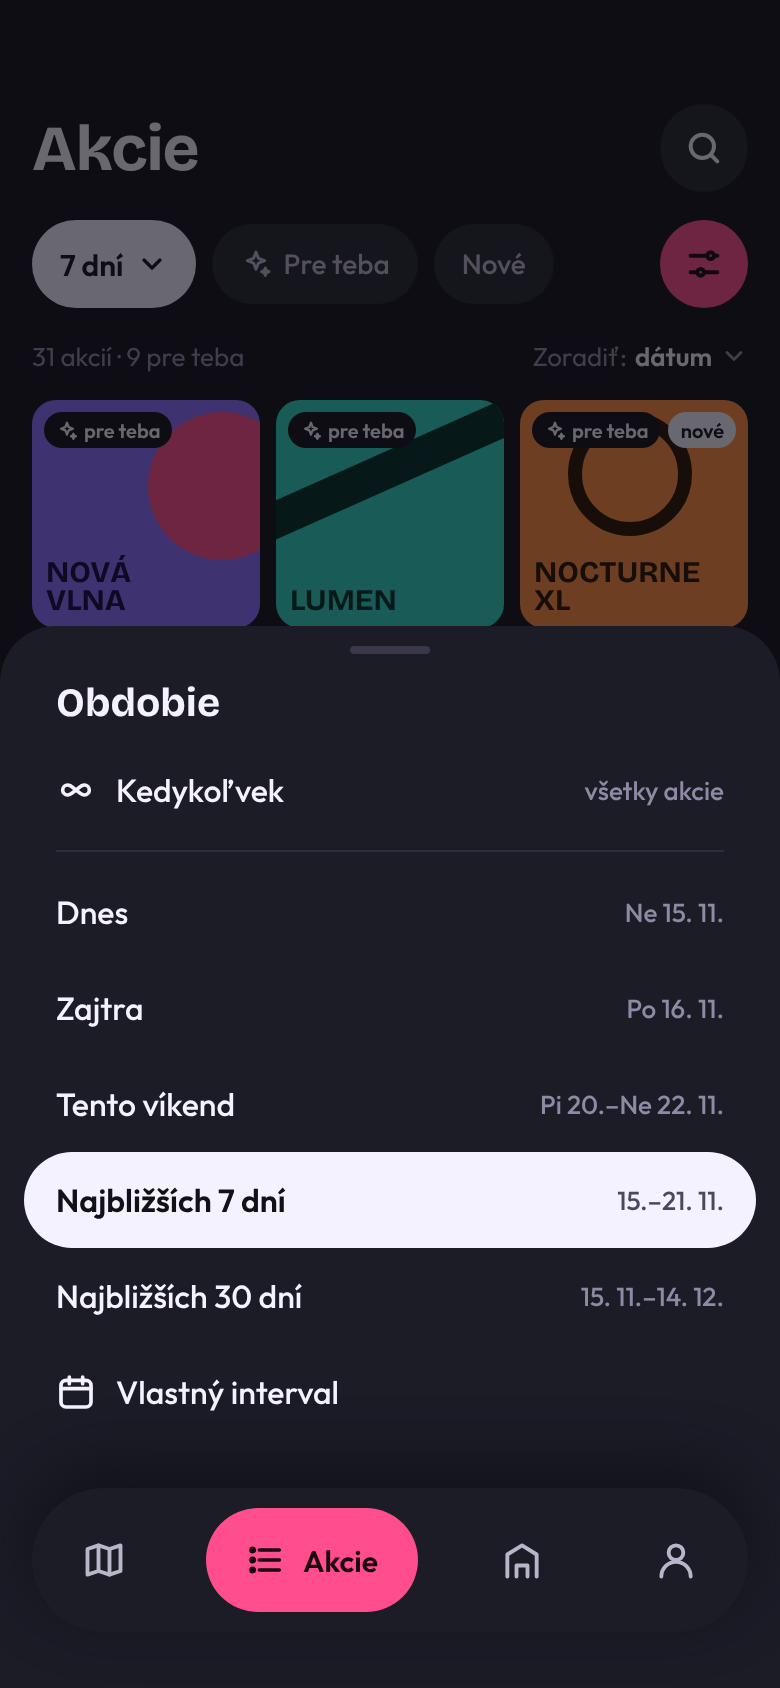
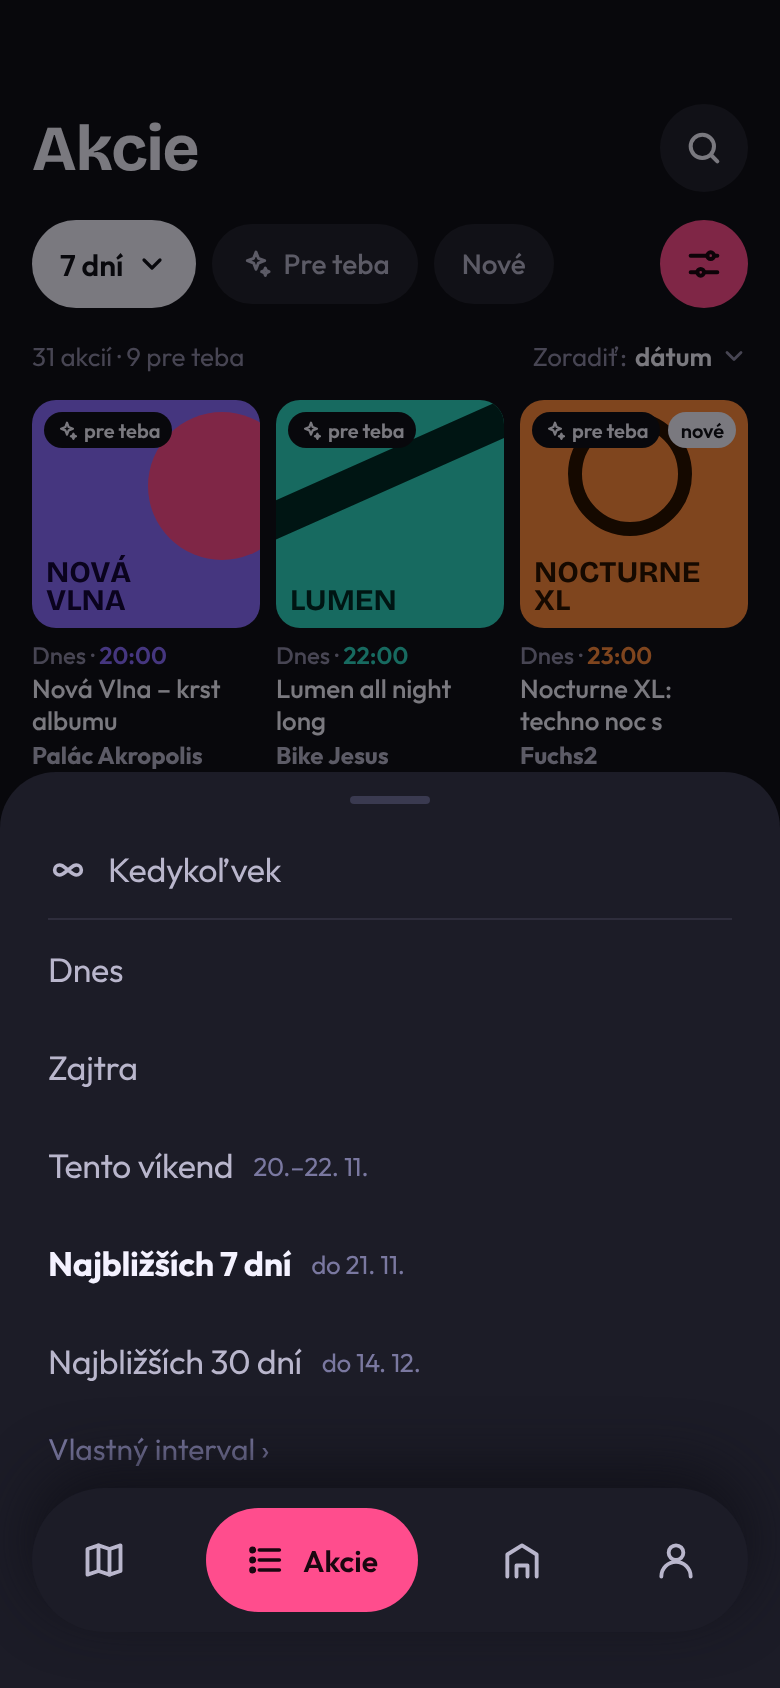
docs: Akcie period sheet same as map day selector
Claude-Session: https://claude.ai/code/session_01CCRZeCVriBLHf7RCmUKnbv

Changed region(s): [[0.0, 0.3697, 1.0, 0.8626], [0.8, 0.5853, 0.9231, 0.6161], [0.8, 0.5237, 0.9231, 0.5545]]

diff --git a/docs/design/html/11-akcie-obdobie.html b/docs/design/html/11-akcie-obdobie.html
@@ -39,12 +39,11 @@
 <div style="margin-top:6px;font-size:12px;font-weight:600;white-space:nowrap;overflow:hidden"><span style="color:#8E8AA6;font-weight:500">Zajtra · </span><span style="color:#C6F432">20:00</span></div>
 <div style="font-size:13px;font-weight:500;line-height:1.25;max-height:2.5em;overflow:hidden;margin-top:1px">Hamlet remix</div>
 <div style="font-size:12px;font-weight:700;color:#B9B6CC;white-space:nowrap;overflow:hidden;text-overflow:ellipsis;margin-top:1px">Archa+</div>
-<div class="tg" style="display:flex;gap:4px;margin-top:5px;overflow:hidden"><span style="flex:none;height:18px;padding:0 6px;border-radius:9px;font-size:10px;font-weight:500;display:flex;align-items:center;background:#2A2838;color:#E4DEFF">theatre</span><span style="flex:none;height:18px;padding:0 6px;border-radius:9px;font-size:10px;font-weight:500;display:flex;align-items:center;border:1.5px solid #5D5677;color:#F4F2FF;box-sizing:border-box">english-friendly</span><span style="flex:none;height:18px;padding:0 6px;border-radius:9px;font-size:10px;font-weight:500;display:flex;align-items:center;border:1.5px solid #5D5677;color:#F4F2FF;box-sizing:border-box">experimental</span></div></div></div></div><nav style="position: absolute; z-index: 10; left: 16px; right: 16px; bottom: 28px; height: 72px; border-radius: 36px; background: #1C1C27; display: flex; align-items: center; justify-content: space-between; padding: 0 10px; box-shadow: 0 -10px 30px rgba(17,17,24,0.9)" aria-label="Hlavná navigácia"><a href="#" style="width: 52px; height: 52px; border-radius: 26px; color: #B9B6CC; display: flex; align-items: center; justify-content: center" aria-label="Mapa"><svg width="22" height="22" viewBox="0 0 24 24" fill="none" stroke="currentColor" stroke-width="2.1" stroke-linecap="round" stroke-linejoin="round" aria-hidden="true"><path d="M9 4L3 6v14l6-2 6 2 6-2V4l-6 2z"></path><path d="M9 4v14M15 6v14"></path></svg></a><a href="#" style="height: 52px; padding: 0 20px; border-radius: 26px; background: #FF4D8D; color: #1A0710; display: flex; align-items: center; gap: 8px; text-decoration: none; font-size: 15px; font-weight: 600"><svg width="20" height="20" viewBox="0 0 24 24" fill="none" stroke="currentColor" stroke-width="2.2" stroke-linecap="round" stroke-linejoin="round" aria-hidden="true"><path d="M8 6h12M8 12h12M8 18h12"></path><circle cx="4" cy="6" r="1"></circle><circle cx="4" cy="12" r="1"></circle><circle cx="4" cy="18" r="1"></circle></svg>Akcie</a><a href="#" style="width: 52px; height: 52px; border-radius: 26px; color: #B9B6CC; display: flex; align-items: center; justify-content: center" aria-label="Miesta"><svg width="22" height="22" viewBox="0 0 24 24" fill="none" stroke="currentColor" stroke-width="2.1" stroke-linecap="round" stroke-linejoin="round" aria-hidden="true"><path d="M4 21V9l8-5 8 5v12"></path><path d="M9 21v-6h6v6"></path></svg></a><a href="#" style="width: 52px; height: 52px; border-radius: 26px; color: #B9B6CC; display: flex; align-items: center; justify-content: center" aria-label="Účet"><svg width="22" height="22" viewBox="0 0 24 24" fill="none" stroke="currentColor" stroke-width="2.1" stroke-linecap="round" stroke-linejoin="round" aria-hidden="true"><circle cx="12" cy="8" r="4"></circle><path d="M4 21a8 8 0 0 1 16 0"></path></svg></a></nav><div style="position:absolute;inset:0;background:rgba(11,11,16,.6);z-index:5"></div>
-<div style="position:absolute;left:0;right:0;bottom:0;z-index:6;background:#1C1C27;border-radius:28px 28px 0 0;padding:10px 12px 124px">
-<div style="width:40px;height:4px;border-radius:2px;background:#3A3848;margin:0 auto 12px"></div>
-<div style="font-family:'Bricolage Grotesque',sans-serif;font-size:20px;font-weight:700;padding:0 16px 8px">Obdobie</div>
-<div style="height:48px;border-radius:24px;padding:0 16px;display:flex;align-items:center;gap:10px;font-size:16px;font-weight:500;background:transparent;color:#F4F2FF"><svg width="20" height="20" viewBox="0 0 24 24" fill="none" stroke="currentColor" stroke-width="2.2" stroke-linecap="round" stroke-linejoin="round" aria-hidden="true"><path d="M7 9a3 3 0 1 0 0 6c2 0 3-1.5 5-3s3-3 5-3a3 3 0 1 1 0 6c-2 0-3-1.5-5-3s-3-3-5-3z"></path></svg><span>Kedykoľvek</span><span style="margin-left:auto;font-size:13px;color:#8E8AA6;font-weight:500">všetky akcie</span></div>
-<div style="height:1px;background:#2E2D3C;margin:6px 16px"></div>
-<div style="height:48px;border-radius:24px;padding:0 16px;display:flex;align-items:center;gap:10px;font-size:16px;font-weight:500;background:transparent;color:#F4F2FF"><span>Dnes</span><span style="margin-left:auto;font-size:13px;color:#8E8AA6;font-weight:500">Ne 15. 11.</span></div><div style="height:48px;border-radius:24px;padding:0 16px;display:flex;align-items:center;gap:10px;font-size:16px;font-weight:500;background:transparent;color:#F4F2FF"><span>Zajtra</span><span style="margin-left:auto;font-size:13px;color:#8E8AA6;font-weight:500">Po 16. 11.</span></div><div style="height:48px;border-radius:24px;padding:0 16px;display:flex;align-items:center;gap:10px;font-size:16px;font-weight:500;background:transparent;color:#F4F2FF"><span>Tento víkend</span><span style="margin-left:auto;font-size:13px;color:#8E8AA6;font-weight:500">Pi 20.–Ne 22. 11.</span></div><div style="height:48px;border-radius:24px;padding:0 16px;display:flex;align-items:center;gap:10px;font-size:16px;font-weight:600;background:#F4F2FF;color:#111118"><span>Najbližších 7 dní</span><span style="margin-left:auto;font-size:13px;color:#4A4760;font-weight:500">15.–21. 11.</span></div><div style="height:48px;border-radius:24px;padding:0 16px;display:flex;align-items:center;gap:10px;font-size:16px;font-weight:500;background:transparent;color:#F4F2FF"><span>Najbližších 30 dní</span><span style="margin-left:auto;font-size:13px;color:#8E8AA6;font-weight:500">15. 11.–14. 12.</span></div>
-<div style="height:48px;border-radius:24px;padding:0 16px;display:flex;align-items:center;gap:10px;font-size:16px;font-weight:500;background:transparent;color:#F4F2FF"><svg width="20" height="20" viewBox="0 0 24 24" fill="none" stroke="currentColor" stroke-width="2.2" stroke-linecap="round" stroke-linejoin="round" aria-hidden="true"><rect x="3" y="5" width="18" height="16" rx="3"></rect><path d="M3 10h18M8 3v4M16 3v4"></path></svg><span>Vlastný interval</span><span style="margin-left:auto;font-size:13px;color:#8E8AA6;font-weight:500"></span></div>
+<div class="tg" style="display:flex;gap:4px;margin-top:5px;overflow:hidden"><span style="flex:none;height:18px;padding:0 6px;border-radius:9px;font-size:10px;font-weight:500;display:flex;align-items:center;background:#2A2838;color:#E4DEFF">theatre</span><span style="flex:none;height:18px;padding:0 6px;border-radius:9px;font-size:10px;font-weight:500;display:flex;align-items:center;border:1.5px solid #5D5677;color:#F4F2FF;box-sizing:border-box">english-friendly</span><span style="flex:none;height:18px;padding:0 6px;border-radius:9px;font-size:10px;font-weight:500;display:flex;align-items:center;border:1.5px solid #5D5677;color:#F4F2FF;box-sizing:border-box">experimental</span></div></div></div></div><nav style="position: absolute; z-index: 10; left: 16px; right: 16px; bottom: 28px; height: 72px; border-radius: 36px; background: #1C1C27; display: flex; align-items: center; justify-content: space-between; padding: 0 10px; box-shadow: 0 -10px 30px rgba(17,17,24,0.9)" aria-label="Hlavná navigácia"><a href="#" style="width: 52px; height: 52px; border-radius: 26px; color: #B9B6CC; display: flex; align-items: center; justify-content: center" aria-label="Mapa"><svg width="22" height="22" viewBox="0 0 24 24" fill="none" stroke="currentColor" stroke-width="2.1" stroke-linecap="round" stroke-linejoin="round" aria-hidden="true"><path d="M9 4L3 6v14l6-2 6 2 6-2V4l-6 2z"></path><path d="M9 4v14M15 6v14"></path></svg></a><a href="#" style="height: 52px; padding: 0 20px; border-radius: 26px; background: #FF4D8D; color: #1A0710; display: flex; align-items: center; gap: 8px; text-decoration: none; font-size: 15px; font-weight: 600"><svg width="20" height="20" viewBox="0 0 24 24" fill="none" stroke="currentColor" stroke-width="2.2" stroke-linecap="round" stroke-linejoin="round" aria-hidden="true"><path d="M8 6h12M8 12h12M8 18h12"></path><circle cx="4" cy="6" r="1"></circle><circle cx="4" cy="12" r="1"></circle><circle cx="4" cy="18" r="1"></circle></svg>Akcie</a><a href="#" style="width: 52px; height: 52px; border-radius: 26px; color: #B9B6CC; display: flex; align-items: center; justify-content: center" aria-label="Miesta"><svg width="22" height="22" viewBox="0 0 24 24" fill="none" stroke="currentColor" stroke-width="2.1" stroke-linecap="round" stroke-linejoin="round" aria-hidden="true"><path d="M4 21V9l8-5 8 5v12"></path><path d="M9 21v-6h6v6"></path></svg></a><a href="#" style="width: 52px; height: 52px; border-radius: 26px; color: #B9B6CC; display: flex; align-items: center; justify-content: center" aria-label="Účet"><svg width="22" height="22" viewBox="0 0 24 24" fill="none" stroke="currentColor" stroke-width="2.1" stroke-linecap="round" stroke-linejoin="round" aria-hidden="true"><circle cx="12" cy="8" r="4"></circle><path d="M4 21a8 8 0 0 1 16 0"></path></svg></a></nav><div style="position:absolute;inset:0;background:rgba(0,0,0,.5);z-index:5"></div>
+<div style="position:absolute;left:0;right:0;bottom:0;z-index:6;background:#1C1C27;border-radius:28px 28px 0 0;padding:12px 0 100px">
+<div style="width:40px;height:4px;border-radius:2px;background:#3A3A50;margin:0 auto 8px"></div>
+<div style="padding:14px 24px;display:flex;align-items:center;gap:10px;font-size:17px;letter-spacing:-0.01em;font-weight:400;color:#B9B6CC"><svg width="20" height="20" viewBox="0 0 24 24" fill="none" stroke="currentColor" stroke-width="2.2" stroke-linecap="round" stroke-linejoin="round" aria-hidden="true"><path d="M7 9a3 3 0 1 0 0 6c2 0 3-1.5 5-3s3-3 5-3a3 3 0 1 1 0 6c-2 0-3-1.5-5-3s-3-3-5-3z"></path></svg><span>Kedykoľvek</span></div>
+<div style="height:1px;background:#2E2D3C;margin:0 24px"></div>
+<div style="padding:14px 24px;display:flex;align-items:center;gap:10px;font-size:17px;letter-spacing:-0.01em;font-weight:400;color:#B9B6CC"><span>Dnes</span></div><div style="padding:14px 24px;display:flex;align-items:center;gap:10px;font-size:17px;letter-spacing:-0.01em;font-weight:400;color:#B9B6CC"><span>Zajtra</span></div><div style="padding:14px 24px;display:flex;align-items:center;gap:10px;font-size:17px;letter-spacing:-0.01em;font-weight:400;color:#B9B6CC"><span>Tento víkend</span><span style="font-size:13px;color:#7A78A0;font-weight:400">20.–22. 11.</span></div><div style="padding:14px 24px;display:flex;align-items:center;gap:10px;font-size:17px;letter-spacing:-0.01em;font-weight:700;color:#F4F2FF"><span>Najbližších 7 dní</span><span style="font-size:13px;color:#7A78A0;font-weight:400">do 21. 11.</span></div><div style="padding:14px 24px;display:flex;align-items:center;gap:10px;font-size:17px;letter-spacing:-0.01em;font-weight:400;color:#B9B6CC"><span>Najbližších 30 dní</span><span style="font-size:13px;color:#7A78A0;font-weight:400">do 14. 12.</span></div>
+<div style="padding:10px 24px;font-size:15px;color:#7A78A0">Vlastný interval ›</div>
 </div></div></body></html>

diff --git a/docs/design/source/gen/akcie.py b/docs/design/source/gen/akcie.py
@@ -73,15 +73,14 @@ b=header('Dnes',count='12 akcií · 3 pre teba')+'<div style="padding:14px 16px 
 page('10-akcie-mriezka',b)
 # 11 period sheet
 b=header('7 dní',count='31 akcií · 9 pre teba')+'<div style="padding:14px 16px 0">'+day('DNES · NEDEĽA 15. 11.')+grid(cards([0,3,5],'Dnes')+cards([7,8,1],'Zajtra'))+'</div>'
-row=lambda lab,on=False,ic='',sub='': f'<div style="height:48px;border-radius:24px;padding:0 16px;display:flex;align-items:center;gap:10px;font-size:16px;font-weight:{600 if on else 500};background:{"#F4F2FF" if on else "transparent"};color:{"#111118" if on else "#F4F2FF"}">{ic}<span>{lab}</span><span style="margin-left:auto;font-size:13px;color:{"#4A4760" if on else "#8E8AA6"};font-weight:500">{sub}</span></div>'
-sheet=f'''<div style="position:absolute;inset:0;background:rgba(11,11,16,.6);z-index:5"></div>
-<div style="position:absolute;left:0;right:0;bottom:0;z-index:6;background:#1C1C27;border-radius:28px 28px 0 0;padding:10px 12px 124px">
-<div style="width:40px;height:4px;border-radius:2px;background:#3A3848;margin:0 auto 12px"></div>
-<div style="font-family:'Bricolage Grotesque',sans-serif;font-size:20px;font-weight:700;padding:0 16px 8px">Obdobie</div>
-{row("Kedykoľvek",False,svg(I["inf"],20,2.2),"všetky akcie")}
-<div style="height:1px;background:#2E2D3C;margin:6px 16px"></div>
-{row("Dnes",False,'','Ne 15. 11.')}{row("Zajtra",False,'','Po 16. 11.')}{row("Tento víkend",False,'','Pi 20.–Ne 22. 11.')}{row("Najbližších 7 dní",True,'','15.–21. 11.')}{row("Najbližších 30 dní",False,'','15. 11.–14. 12.')}
-{row("Vlastný interval",False,svg(I["cal"],20,2.2),'')}
+row=lambda lab,on=False,ic='',sub='': f'<div style="padding:14px 24px;display:flex;align-items:center;gap:10px;font-size:17px;letter-spacing:-0.01em;font-weight:{700 if on else 400};color:{"#F4F2FF" if on else "#B9B6CC"}">{ic}<span>{lab}</span>{f'<span style="font-size:13px;color:#7A78A0;font-weight:400">{sub}</span>' if sub else ''}</div>'
+sheet=f'''<div style="position:absolute;inset:0;background:rgba(0,0,0,.5);z-index:5"></div>
+<div style="position:absolute;left:0;right:0;bottom:0;z-index:6;background:#1C1C27;border-radius:28px 28px 0 0;padding:12px 0 100px">
+<div style="width:40px;height:4px;border-radius:2px;background:#3A3A50;margin:0 auto 8px"></div>
+{row("Kedykoľvek",False,svg(I["inf"],20,2.2))}
+<div style="height:1px;background:#2E2D3C;margin:0 24px"></div>
+{row("Dnes")}{row("Zajtra")}{row("Tento víkend",False,'','20.–22. 11.')}{row("Najbližších 7 dní",True,'','do 21. 11.')}{row("Najbližších 30 dní",False,'','do 14. 12.')}
+<div style="padding:10px 24px;font-size:15px;color:#7A78A0">Vlastný interval ›</div>
 </div>'''
 page('11-akcie-obdobie',b,sheet)
 # 12 search

diff --git a/docs/design.md b/docs/design.md
@@ -95,7 +95,7 @@ Jeden zoznam akcií (mriežka) a nad ním filtre, ktoré sa dajú ľubovoľne ko
 - **Lišta:** biele tlačidlo **obdobia** 44 px s šípkou (rovnaké ako „Dnes ▾“ na mape), čipy **Pre teba** (ikona iskier, nie srdiečko) a **Nové** (40 px, vypnuté `#23232F` / `#B9B6CC`, zapnuté ružové `#FF4D8D` / `#1A0710`), vpravo ružový **Filter** 44 px (rovnaký ako na mape, s odznakom počtu). Filter je vždy na mieste; ak sa čipy nezmestia, ich pás sa posúva vodorovne a na pravom okraji sa stráca (len keď pretekajú).
 - **Riadok pod lištou** (13 px, `#8E8AA6`): vľavo počet („12 akcií · 3 pre teba“; pri zapnutom Pre teba „9 akcií pre teba“), vpravo **Zoradiť: dátum ▾** (hodnota `#F4F2FF` 600).
 
-**Obdobie** (panel zdola ako výber dňa na mape, `11`): nadpis „Obdobie“, prvá položka **Kedykoľvek** s ikonou nekonečna a textom „všetky akcie“, oddelená čiarou od ostatných; potom **Dnes**, **Zajtra**, **Tento víkend**, **Najbližších 7 dní**, **Najbližších 30 dní** (vpravo sivý rozsah dátumov), **Vlastný interval** (ikona kalendára → mesačný kalendár ako na mape, výber intervalu: prvý ťuk začiatok, druhý koniec; dvakrát ten istý deň = jeden deň). Vybraná položka = biela pilulka. Na tlačidle krátky text: „Dnes“, „Zajtra“, „Víkend“, „7 dní“, „30 dní“, „Kedykoľvek“, „20.–24. 11.“
+**Obdobie** (`11`): **rovnaký panel zdola ako výber dňa na mape** (`DaySelector`: bez nadpisu, obyčajný zoznam, text 17 px, vybraná položka tučná `#F4F2FF`, ostatné `#B9B6CC`, posledná položka menšia sivá s „›“ otvorí kalendár). Položky: **Kedykoľvek** (prvá, s ikonou nekonečna, pod ňou deliaca čiara), **Dnes**, **Zajtra**, **Tento víkend**, **Najbližších 7 dní**, **Najbližších 30 dní** (pri víkende a 7/30 dňoch za textom malý sivý rozsah 13 px `#7A78A0`, napr. „20.–22. 11.“, „do 21. 11.“), **Vlastný interval ›** → mesačný kalendár ako na mape, výber intervalu: prvý ťuk začiatok, druhý koniec; dvakrát ten istý deň = jeden deň. Na tlačidle krátky text: „Dnes“, „Zajtra“, „Víkend“, „7 dní“, „30 dní“, „Kedykoľvek“, „20.–24. 11.“ Ideálne jeden spoločný komponent pre mapu aj Akcie (líšia sa len položky a výber intervalu).
 - Hranica dňa je 5:00 (ako všade). **Tento víkend** = piatok až nedeľa; po–št najbližší víkend, pi–ne zvyšok aktuálneho. **7 a 30 dní** sú posuvné od dneška vrátane.
 - **Predvolene Dnes**; appka si pamätá naposledy vybrané obdobie (lokálne).
 
